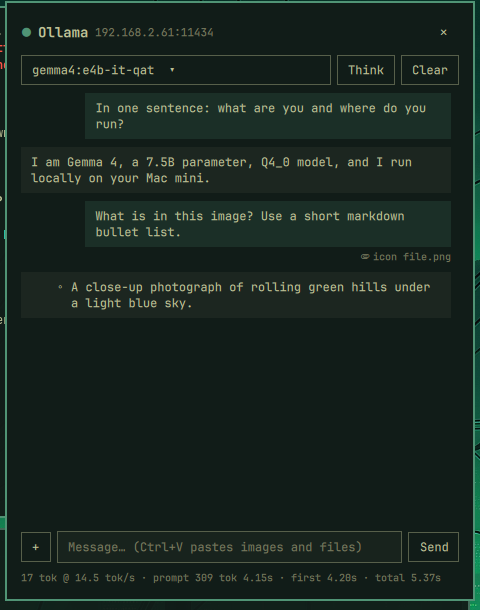
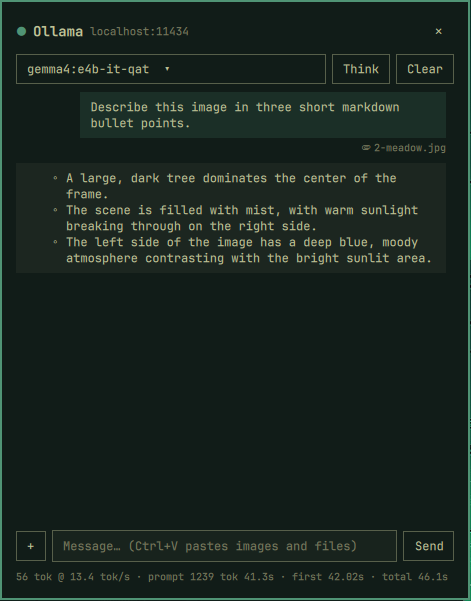
Preview: localhost host, wallpaper description

Changed region(s): [[0.0, 0.0, 1.0, 1.0], [0.0594, 0.2396, 0.9512, 0.5092]]

diff --git a/README.md b/README.md
@@ -26,7 +26,7 @@ Needs `curl`, `jq`, `wl-clipboard` and `poppler` (for `pdftotext`), all part of 
 Ollama server somewhere on your network (or on this machine). No sudo or system changes; everything lives in
 the plugin folder and `~/.config/ollama-chat/`.
 
-<p><img src="preview.png" alt="The chat panel: a model picker, a streamed reply describing an attached image, and the speed stats line" width="420"></p>
+<p><img src="preview.png" alt="The chat panel: a model picker, a streamed markdown reply describing an attached wallpaper, and the speed stats line" width="420"></p>
 
 ## Remove
 
